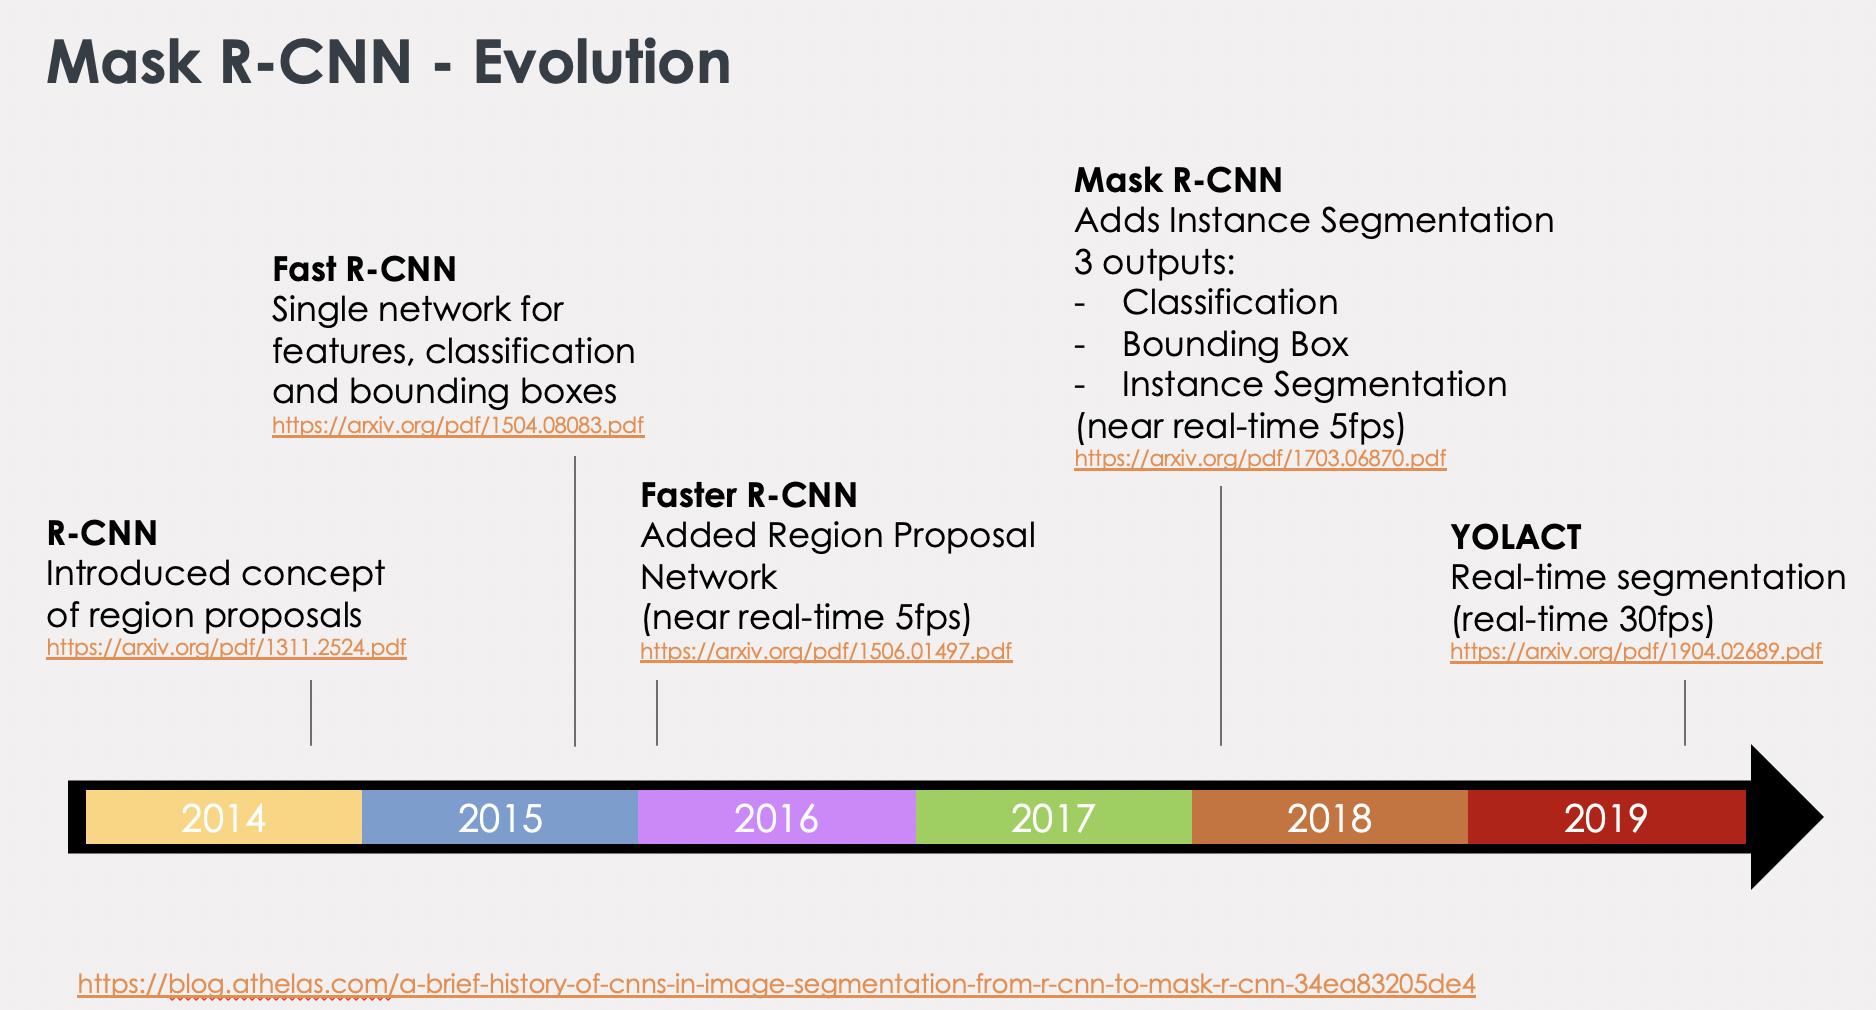
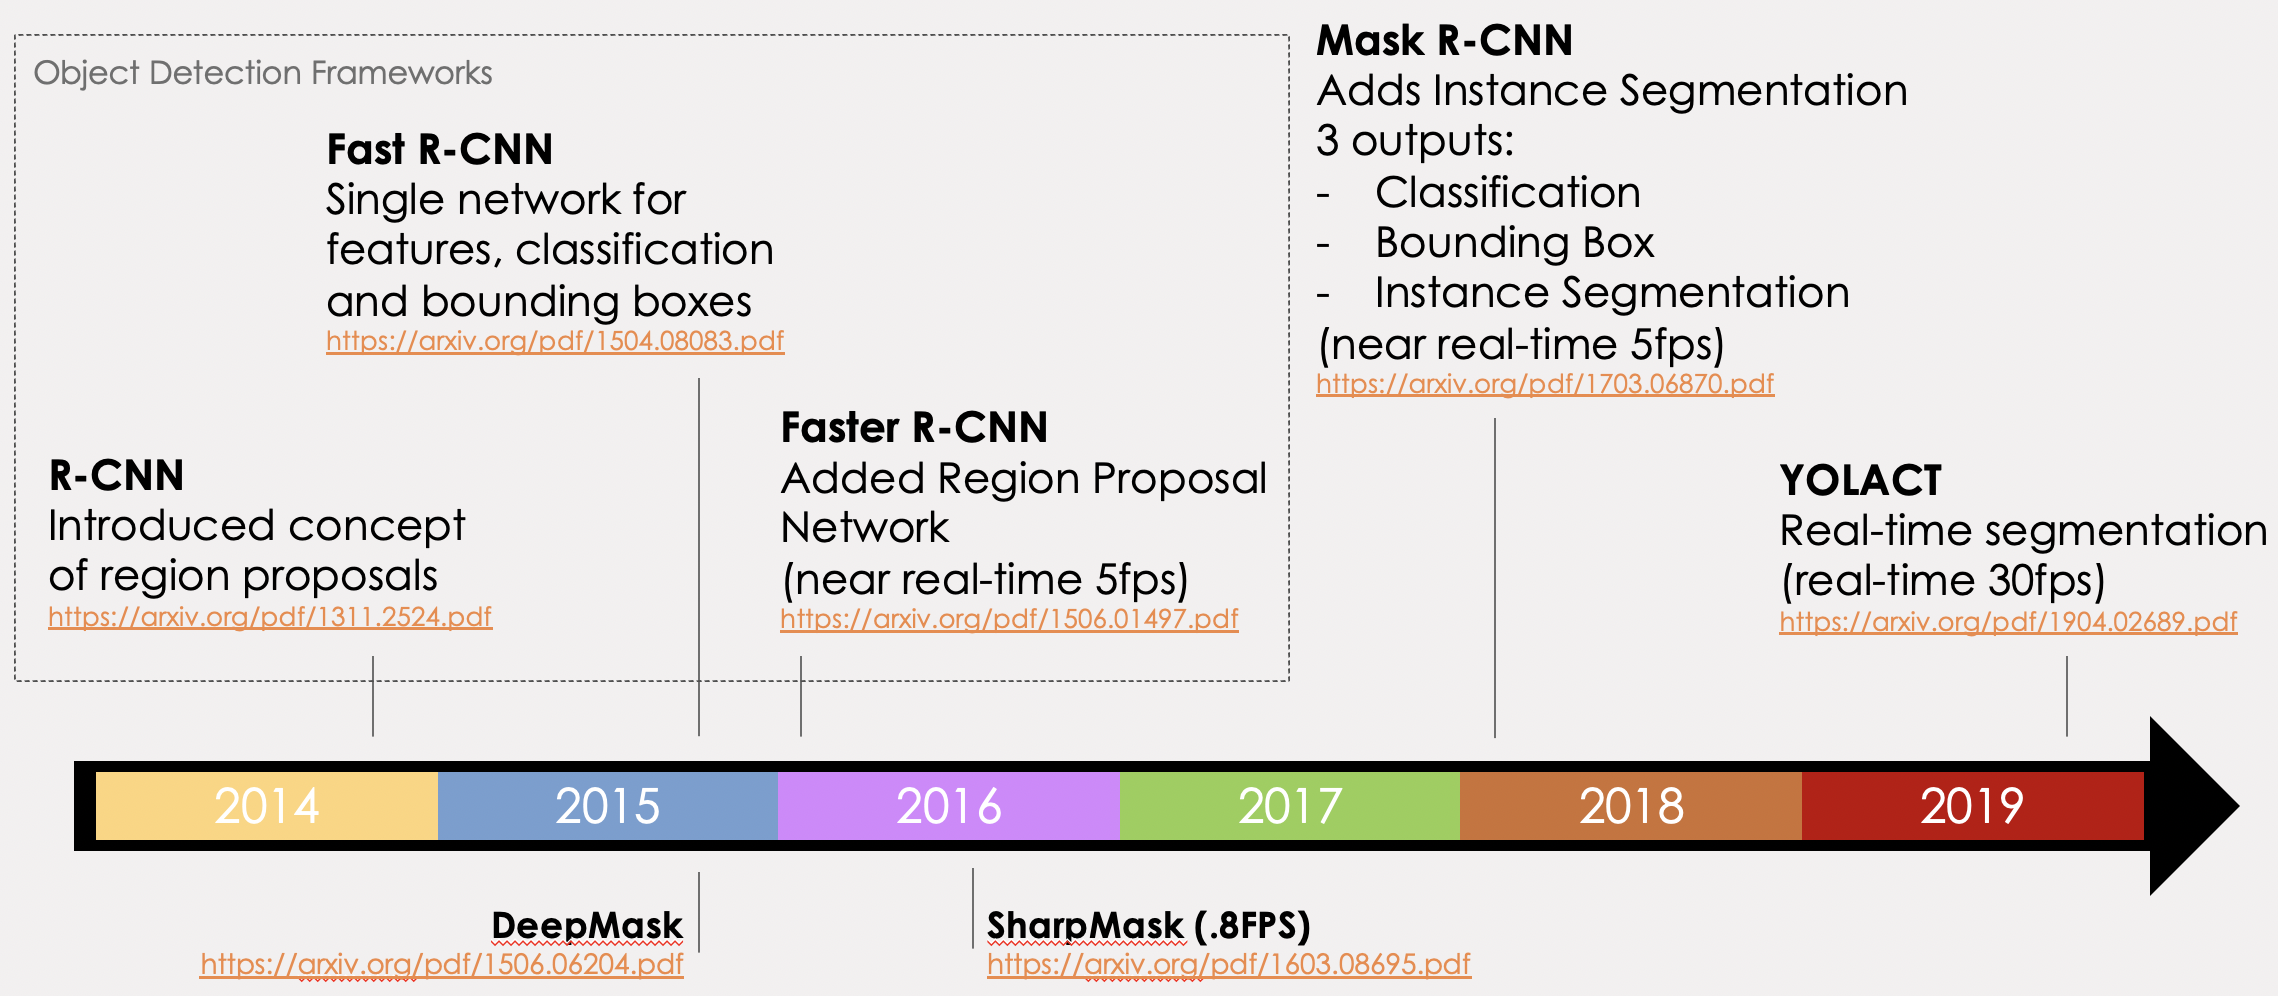
tech report updates

diff --git a/milestones/tech_report/Technology_Report.md b/milestones/tech_report/Technology_Report.md
@@ -8,7 +8,7 @@ A recent paper describes a system that can take in “in the wild” scene image
 
 The effort described in this paper aims to use existing methods to provide a quality instance segmentaiton of fashion items and their attributes using data provided from the 2019 Kaggle iMaterialist [6][7] challenge.
 
-This effort focuses on the implementation of a Mask R-CNN model and covers the major components of this framework that deliver a state-of-the-art semantic segmentation.  The Matterport implementation of Mask R-CNN [] is used as a supporting framework to implement the model into which the iMaterialist data is loaded and trained.
+This effort focuses on the implementation of a Mask R-CNN model and covers the major components of this framework that deliver a state-of-the-art semantic segmentation.  The Matterport implementation of Mask R-CNN [12] is used as a supporting framework to implement the model into which the iMaterialist data is loaded and trained.
 
 A brief discussion on the most recent iteration of this infrastructure, YOLACT, is reviewed where real-time segmentaiton has become a reality.
 
@@ -47,7 +47,7 @@ Semantic segmentation has the goal of classify each pixel into a fixed set of ca
 <a name=sec2></a>
 ## 2. Related Work
 <a href=#toc>back to table of contents</a><br>
-Object detection has become a primary focus of computer vision tasks over recent years.  In 2015, FaceBook Research introduced DeepMask which was a pioneering effort into instance segmentation.  Less than a year after publishing DeepMask, the same team published an iterative imparovement called SharpMask[14] which addressed many of the DeepMask inaccuracies.  DeepMask and SharpMask did not use skip connections and focused on refining a prposed mask using convolution.  Inference times of the improved SharpMask were ~.8s per frame.  At the same time, the R-CNN family of object detection architectures were under going a series of iterative improvements with the publication of Fast R-CNN and Faster-RCNN.  Although these focused on object detection, they became the precursor to instance segmenation architecture of Mask R-CNN.  The architecture of DeepMask[13] and its successor SharpMask[14] focused on segmenation first and then identifiction which led to a slow training and slow inference as well as a high rate of misclassifications.  Mask R-CNN performs the same task as DeepMask but does so in parallel to the classification task improving both speed and accuracy.
+Object detection has become a primary focus of computer vision tasks over recent years.  In 2015, FaceBook Research introduced a viable instance segmentation architecture with DeepMask [13].  Less than a year after publishing DeepMask, the same team published an iterative improvement called SharpMask [14] which addressed many of the DeepMask inaccuracies.  DeepMask and SharpMask did not use skip connections and focused on refining a prposed mask using convolution.  Inference times of the improved SharpMask were ~.8s per frame.  At the same time, the R-CNN family of object detection architectures were under going a series of iterative improvements with the publication of Fast R-CNN and Faster-RCNN.  Although these focused on object detection, they became the precursor to instance segmenation architecture of Mask R-CNN.  By focusing on segmentation first and then classification, DeepMask and SharpMask proved slow to train and predict as well as a high rate of misclassifications.  Mask R-CNN performs the same task as DeepMask and SharpMask but does so in parallel to the classification task improving both speed and accuracy.
 
 This paper focuses on how Mask R-CNN works and its evolution.
 
@@ -58,6 +58,8 @@ This paper focuses on how Mask R-CNN works and its evolution.
 
 ### Evolution of Mask R-CNN
 Mask R-CNN is the evolution of not a segmentation architecture, but rather the RCNN object detection architecure.  The timeline in Figure 2 shows the papid progress since R-CNN was introduced in 2014 and how it developed into the instance segmentation architecture of Mask R-CNN in 2018.  In 2019, Mask R-CNN was refined by the YOLACT instrastructure which dramatically improved inference time allowing real-time segmenation of images, albeit with lower accuracy.
+
+During the evolution of R-CNN, FaceBook Research published both the DeepMask and SharpMask architectures making them the start-o-the-art at that time.  Mask R-CNN became the new standard after its implementation in 2018.
 
 <br>
 <center>
@@ -352,5 +354,5 @@ As YOLACT was published during our initial project, only one stable implementati
 [10] Lin, T.-Y., Maire, M., Belongie, S., Hays, J., Perona, P., Ramanan, D., Zitnick, C. L. (2014). Microsoft COCO: Common Objects in Context. Computer Vision – ECCV 2014 Lecture Notes in Computer Science, 740–755. doi: 10.1007/978-3-319-10602-1\_48<br>
 [11] iMaterialist (Fashion) 2019 at FGVC6. (n.d.). Retrieved from https://www.kaggle.com/c/imaterialist-fashion-2019-FGVC6/overview/evaluation.<br>
 [12] Mask R-CNN for Object Detection and Segmentation https://github.com/matterport/Mask_RCNN 
-[13] Learning to Segment Object Candidates, Sept 2015, Pedro O. Pinheiro∗ Ronan Collobert Piotr Dollar, Facebook AI Research (FAIR), https://arxiv.org/pdf/1506.06204.pdf <br>
-[14] Learnign to Refine Object Segments July 2016, Pedro O. Pinheiro⋆, Tsung-Yi Lin⋆, Ronan Collobert, Piotr Dollar, Facebook AI Research (FAIR), https://arxiv.org/pdf/1603.08695.pdf
+[13] DeepMask; Learning to Segment Object Candidates, Sept 2015, Pedro O. Pinheiro∗ Ronan Collobert Piotr Dollar, Facebook AI Research (FAIR), https://arxiv.org/pdf/1506.06204.pdf <br>
+[14] SharpMask; Learnign to Refine Object Segments July 2016, Pedro O. Pinheiro⋆, Tsung-Yi Lin⋆, Ronan Collobert, Piotr Dollar, Facebook AI Research (FAIR), https://arxiv.org/pdf/1603.08695.pdf
